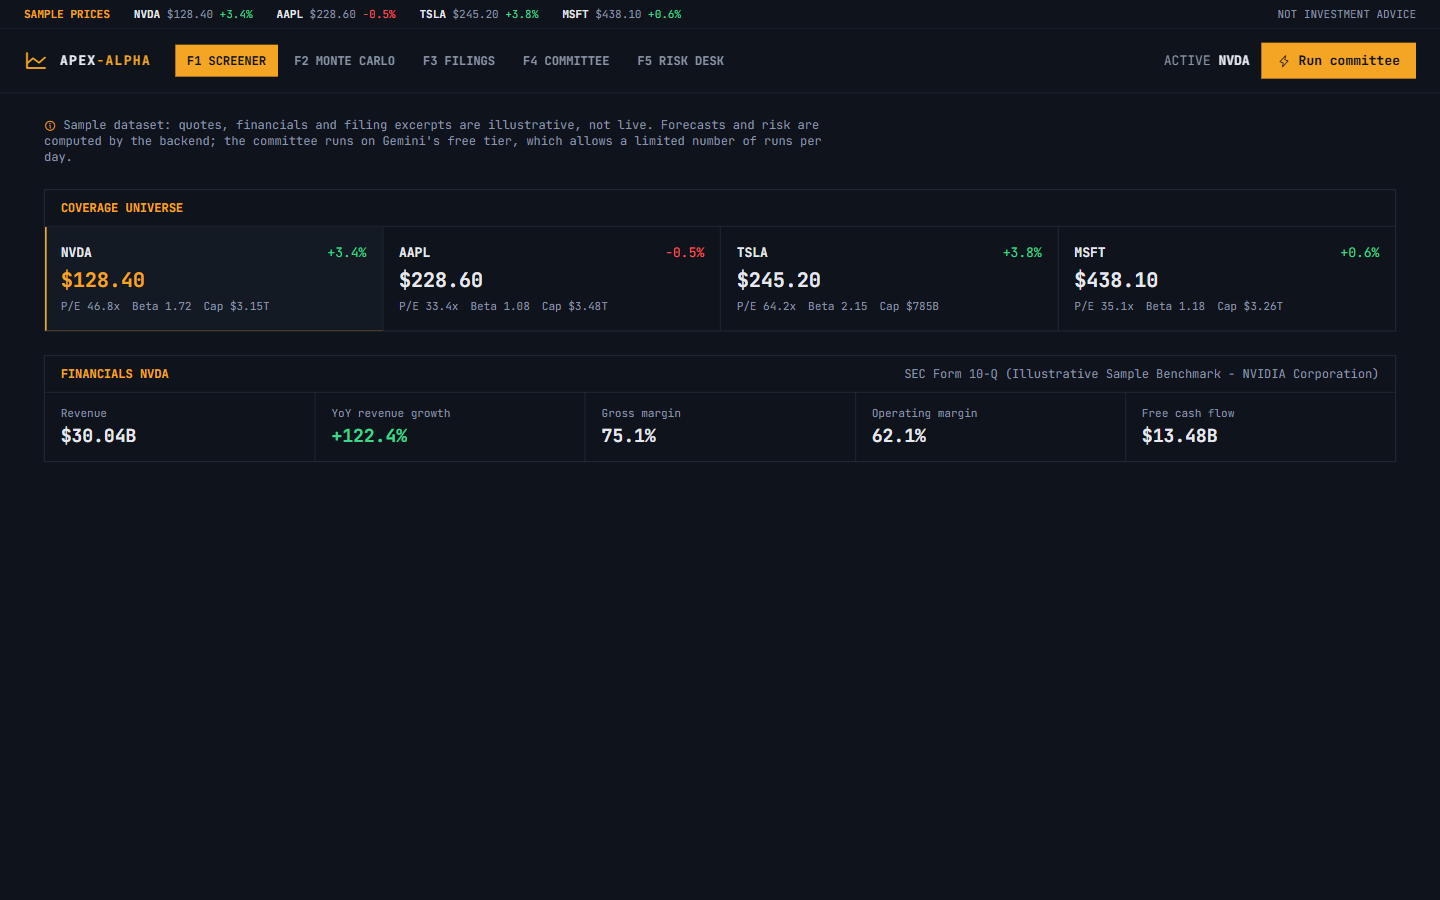
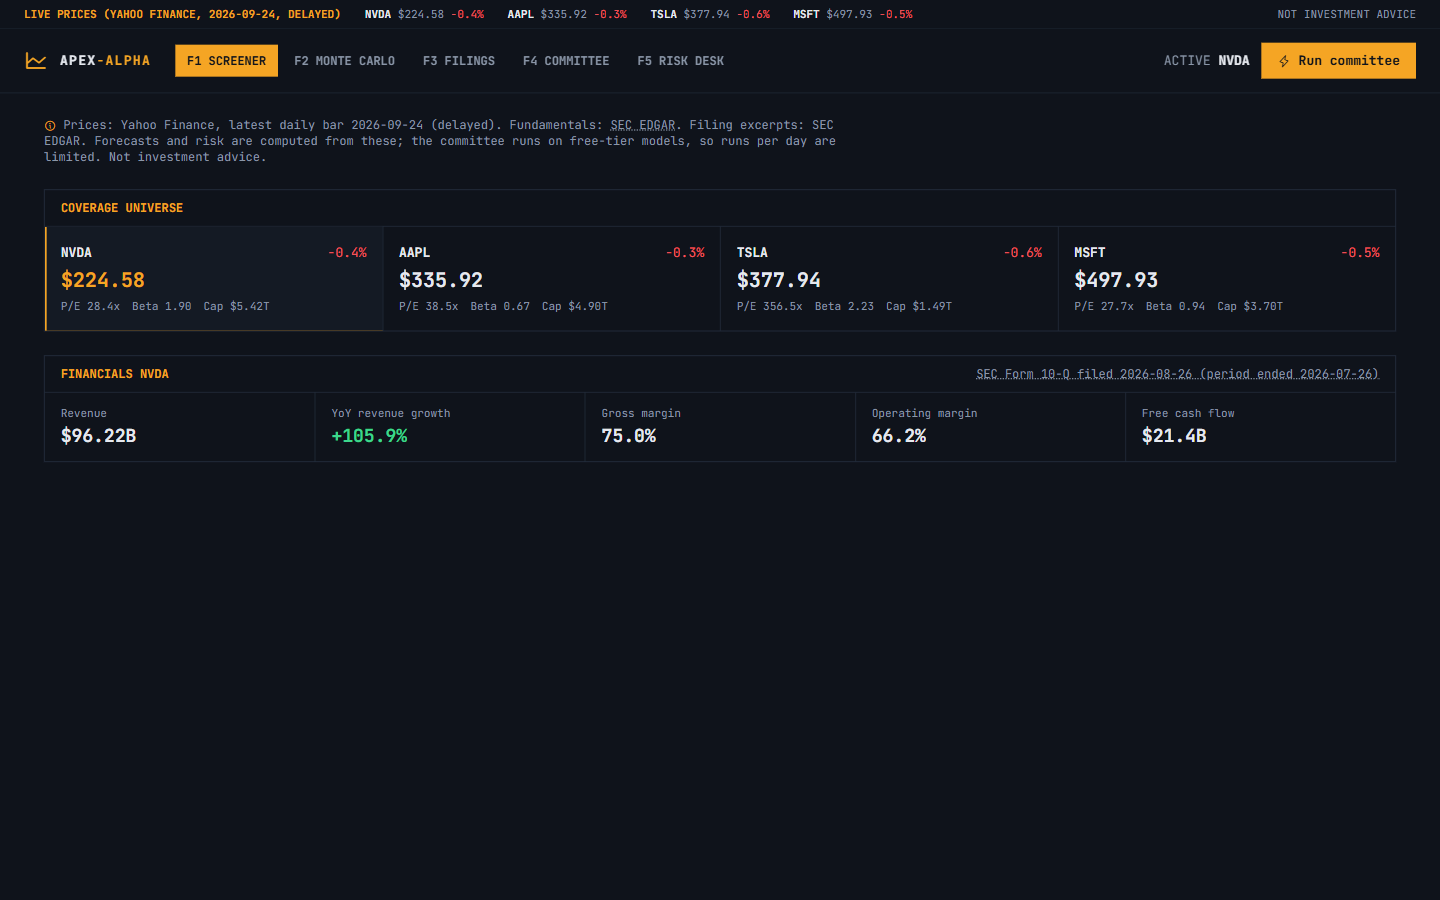
feat(ui): show where every number comes from; docs and live screenshots
The terminal labels live vs sample data per source, links fundamentals and
excerpts to the SEC filing, shows n/a for missing valuations, and labels
the committee steps "LLM" since Groq may serve them. README documents the
data sources, caching and environment variables; screenshots, including
a full committee run, are captured from the live demo.

diff --git a/static/index.html b/static/index.html
@@ -45,7 +45,7 @@
 
   <!-- Quote strip (static; sample prices) -->
   <div class="border-b border-bb-line text-[11px] px-4 md:px-6 py-1.5 flex items-center gap-6 text-bb-muted overflow-x-auto whitespace-nowrap">
-    <span class="font-bold text-bb-amber">SAMPLE PRICES</span>
+    <span class="font-bold text-bb-amber" id="stripLabel">PRICES</span>
     <div class="flex gap-6" id="quoteStrip"></div>
     <span class="ml-auto hidden md:inline">NOT INVESTMENT ADVICE</span>
   </div>
@@ -75,7 +75,7 @@
   <main class="flex-1 w-full max-w-[1400px] mx-auto px-4 md:px-6 py-6 space-y-6">
     <p class="text-bb-muted text-xs max-w-[110ch]">
       <i class="ph ph-info text-bb-amber align-[-2px]"></i>
-      Sample dataset: quotes, financials and filing excerpts are illustrative, not live. Forecasts and risk are computed by the backend; the committee runs on Gemini's free tier, which allows a limited number of runs per day.
+      <span id="dataNote">Loading market data.</span>
     </p>
 
     <div id="loadError" role="alert" class="hidden px-4 py-3 border border-bb-down text-bb-down"></div>
@@ -116,7 +116,7 @@
     <section id="page_secrag" class="hidden border border-bb-line">
       <div class="px-4 py-2.5 border-b border-bb-line flex flex-wrap gap-2 justify-between">
         <h2 class="text-xs font-bold text-bb-amber">FILING EXCERPTS <span data-sym></span></h2>
-        <span class="text-xs text-bb-muted">Committee citations are checked word for word against these</span>
+        <span class="text-xs text-bb-muted" id="filingSource"></span>
       </div>
       <div class="divide-y divide-bb-line" id="secExcerptsContainer"></div>
     </section>
@@ -176,8 +176,8 @@
       ['ingest_market_data', 'Ingest'],
       ['run_quantitative_forecast', 'Monte Carlo'],
       ['evaluate_risk_guardrails', 'Risk guard'],
-      ['adversarial_debate', 'Bull vs bear (Gemini)'],
-      ['executive_synthesis', 'CIO (Gemini)'],
+      ['adversarial_debate', 'Bull vs bear (LLM)'],
+      ['executive_synthesis', 'CIO (LLM)'],
       ['stage_order_proposal', 'Stage order'],
       ['portfolio_manager_gate', 'PM sign-off'],
     ];
@@ -189,7 +189,9 @@
     const esc = (s) => String(s ?? '').replace(/[&<>"']/g, (c) => ({ '&': '&amp;', '<': '&lt;', '>': '&gt;', '"': '&quot;', "'": '&#39;' }[c]));
     const money = (n) => '$' + Number(n).toLocaleString('en-US', { minimumFractionDigits: 2, maximumFractionDigits: 2 });
     const pct = (n, signed = false) => (signed && n > 0 ? '+' : '') + Number(n).toFixed(1) + '%';
-    const cap = (b) => (b >= 1000 ? (b / 1000).toFixed(2) + 'T' : b.toFixed(0) + 'B');
+    const cap = (b) => (b == null ? 'n/a' : '$' + (b >= 1000 ? (b / 1000).toFixed(2) + 'T' : b.toFixed(0) + 'B'));
+    const multiple = (x) => (x == null ? 'n/a' : x + 'x');
+    const link = (url, text) => (url ? `<a href="${esc(url)}" target="_blank" rel="noopener" class="underline decoration-dotted hover:text-bb-amber">${esc(text)}</a>` : esc(text));
     const tone = (n) => (n >= 0 ? 'text-bb-up' : 'text-bb-down');
     const stat = (label, value, sub = '', cls = '') => `
       <div class="px-4 py-3">
@@ -252,6 +254,8 @@
         showLoadError('Could not load market data: ' + err.message);
         return;
       }
+      const livePrices = state.tickers.find((t) => t.source !== 'sample');
+      $('stripLabel').textContent = livePrices ? `LIVE PRICES (${livePrices.source.toUpperCase()}, ${livePrices.as_of}, DELAYED)` : 'SAMPLE PRICES';
       $('quoteStrip').innerHTML = state.tickers.map((t) =>
         `<span><span class="text-bb-text font-bold">${esc(t.symbol)}</span> ${money(t.price)} <span class="${tone(t.change_pct)}">${pct(t.change_pct, true)}</span></span>`
       ).join('');
@@ -283,6 +287,7 @@
         return;
       }
       if (state.active !== symbol) return;
+      renderDataNote();
       renderMetrics();
       renderMonteCarlo();
       renderFilings();
@@ -299,14 +304,24 @@
           class="text-left p-4 space-y-1 ${active ? 'bg-bb-surface shadow-[inset_2px_0_0_#F5A524]' : 'hover:bg-bb-surface'}">
           <div class="flex justify-between"><span class="font-bold">${esc(t.symbol)}</span><span class="${tone(t.change_pct)}">${pct(t.change_pct, true)}</span></div>
           <p class="text-xl font-bold ${active ? 'text-bb-amber' : ''}">${money(t.price)}</p>
-          <p class="text-[11px] text-bb-muted flex gap-3"><span>P/E ${t.pe_ratio}x</span><span>Beta ${t.beta}</span><span>Cap $${cap(t.market_cap_b)}</span></p>
+          <p class="text-[11px] text-bb-muted flex gap-3"><span>P/E ${multiple(t.pe_ratio)}</span><span>Beta ${Number(t.beta).toFixed(2)}</span><span>Cap ${cap(t.market_cap_b)}</span></p>
         </button>`;
       }).join('');
     }
 
+    function renderDataNote() {
+      const src = state.detail[state.active].sources;
+      const parts = [];
+      parts.push(src.prices === 'sample' ? 'Prices: illustrative sample (live source unavailable).' : `Prices: ${esc(src.prices)}, latest daily bar ${esc(src.prices_as_of)} (delayed).`);
+      parts.push(src.fundamentals === 'sample' ? 'Fundamentals: illustrative sample.' : `Fundamentals: ${link(src.fundamentals_url, 'SEC EDGAR')}.`);
+      parts.push(src.excerpts === 'sample' ? 'Filing excerpts: illustrative sample.' : 'Filing excerpts: SEC EDGAR.');
+      parts.push('Forecasts and risk are computed from these; the committee runs on free-tier models, so runs per day are limited. Not investment advice.');
+      $('dataNote').innerHTML = parts.join(' ');
+    }
+
     function renderMetrics() {
       const f = state.detail[state.active].financials;
-      $('activeFilingRef').textContent = f.sec_filing_ref;
+      $('activeFilingRef').innerHTML = link(f.filing_url, f.sec_filing_ref);
       $('metricsRow').innerHTML =
         stat('Revenue', '$' + f.revenue_b + 'B') +
         stat('YoY revenue growth', pct(f.revenue_growth_yoy_pct, true), '', tone(f.revenue_growth_yoy_pct)) +
@@ -366,6 +381,10 @@
 
     function renderFilings() {
       const d = state.detail[state.active];
+      const filing = d.sources.excerpts_filing;
+      $('filingSource').innerHTML = filing
+        ? `Verbatim from ${link(filing.url, `SEC Form ${filing.form} filed ${filing.filed}`)}. Committee citations are checked word for word against these.`
+        : 'Illustrative sample excerpts (live SEC filing unavailable). Committee citations are checked word for word against these.';
       $('secExcerptsContainer').innerHTML = Object.entries(d.excerpts).map(([key, text]) => `
         <figure class="px-4 py-4 space-y-1">
           <figcaption class="text-xs font-bold text-bb-amber">${esc(key.replace(/_/g, ' ').toUpperCase())}</figcaption>

diff --git a/README.md b/README.md
@@ -8,10 +8,18 @@
 
 > **Apex-Alpha** is a quantitative research terminal. A **Merton jump-diffusion Monte Carlo** engine produces 5, 30 and 90-day price quantiles; a **deterministic risk engine** sizes positions with fractional Kelly and VaR limits; an **adversarial Bull vs. Bear LLM committee** argues the case from filing excerpts; and a **LangGraph `interrupt()`** holds every staged order for a portfolio manager's sign-off.
 
-**Live demo:** https://apex-alpha-tan.vercel.app (sample data; the committee runs on Gemini's free tier, so it is limited to a small number of runs per day)
+**Live demo:** https://apex-alpha-tan.vercel.app (NVDA, AAPL, TSLA, MSFT with live prices and SEC filings; the committee runs on free-tier models, so runs per day are limited)
 
-> [!NOTE]
-> **Sample dataset.** Quotes, financials and filing excerpts for NVDA, AAPL, TSLA and MSFT are illustrative benchmark data, not live market data. The backtest below uses real historical prices.
+## Data sources
+
+| Data | Source | Cached | If unavailable |
+| :--- | :--- | :--- | :--- |
+| Prices, beta, volatility, 52-week range | Yahoo Finance via `yfinance` (about 15 months of daily bars; beta and volatility computed exactly as in the backtest) | 15 min | Tiingo if `TIINGO_API_KEY` is set, then the illustrative sample |
+| Market cap, trailing and forward P/E | Yahoo Finance; market cap and P/E fall back to SEC shares outstanding and trailing net income | 24 h | shown as n/a |
+| Revenue, margins, free cash flow, debt/equity | SEC EDGAR XBRL company facts (latest quarter, derived from year-to-date filings where needed) | 6 h | illustrative sample |
+| Filing excerpts the committee cites | SEC EDGAR, latest 10-Q or 10-K (MD&A and risk factors) | 6 h | illustrative sample |
+
+Read endpoints also carry CDN cache headers, so serverless instances rarely refetch. Every response and the UI say which source each number came from.
 
 ---
 
@@ -39,8 +47,8 @@ The LLM committee is not part of the backtest: it cannot be replayed without loo
 ```mermaid
 flowchart TD
     subgraph DataIngestion["1. Data & Filings"]
-        Quotes["Sample Market Quotes<br/>(price, beta, volatility, 52-week range)"]
-        SEC["Sample Filing Excerpts & Financials"]
+        Quotes["Live Quotes<br/>(Yahoo Finance: price, beta, volatility, 52-week range)"]
+        SEC["SEC EDGAR<br/>(XBRL fundamentals, 10-Q / 10-K excerpts)"]
     end
 
     subgraph QuantEngine["2. Quantitative Forecasting & Risk"]
@@ -49,7 +57,7 @@ flowchart TD
         Risk["Deterministic Risk Guard<br/>(VaR, CVaR, fractional Kelly, 15% cap)"]
     end
 
-    subgraph DebateEngine["3. Adversarial LLM Committee (Gemini 3.6 / 3.7 / 3.8 fallback)"]
+    subgraph DebateEngine["3. Adversarial LLM Committee (Gemini 3.6 / 3.7 / 3.8, then Groq)"]
         Bull["Bull Analyst"]
         Bear["Bear Risk Officer"]
         Synth["CIO Synthesis"]
@@ -76,11 +84,17 @@ The UI streams each graph node as it finishes (`POST /api/tickers/{symbol}/analy
 
 ## Screenshots
 
-![Screener](docs/images/01_screener.png)
+Captured from the live demo.
 
-![Monte Carlo](docs/images/02_monte_carlo.png)
+![Screener with live prices](docs/images/01_screener.png)
 
-![Risk desk](docs/images/03_risk_desk.png)
+![Monte Carlo forecast](docs/images/02_monte_carlo.png)
+
+![Excerpts from the latest SEC filing](docs/images/03_filings.png)
+
+![Committee run: every citation checked against the filing](docs/images/04_committee.png)
+
+![Order staged for portfolio manager sign-off](docs/images/05_risk_desk.png)
 
 ---
 
@@ -88,11 +102,19 @@ The UI streams each graph node as it finishes (`POST /api/tickers/{symbol}/analy
 
 ```bash
 pip install -r requirements.txt
-cp .env.example .env          # add GEMINI_API_KEY
+cp .env.example .env          # add GEMINI_API_KEY, GROQ_API_KEY, SEC_USER_AGENT
 uvicorn app.main:app --port 8030 --reload
 ```
 
-Open http://127.0.0.1:8030. `GEMINI_MODELS` sets the fallback order (default `gemini-3.6-flash,gemini-3.7-flash,gemini-3.8-flash`); each model has its own free-tier quota.
+Open http://127.0.0.1:8030.
+
+| Variable | Purpose |
+| :--- | :--- |
+| `GEMINI_API_KEY` | Committee models. `GEMINI_MODELS` sets the order (default `gemini-3.6-flash,gemini-3.7-flash,gemini-3.8-flash`); each has its own free-tier quota. |
+| `GROQ_API_KEY` | Backup when every Gemini model is out of quota or overloaded (`GROQ_MODEL`, default `openai/gpt-oss-120b`). |
+| `SEC_USER_AGENT` | Required by SEC EDGAR: a name and contact email, e.g. `Apex-Alpha demo you@example.com`. No API key needed. |
+| `TIINGO_API_KEY` | Optional second price source (free key at tiingo.com). |
+| `APEX_DATA=sample` | Use the offline sample dataset only (the test suite does this). |
 
 MCP server:
 
@@ -115,7 +137,7 @@ python -m backtest.run_backtest && python -m backtest.report
 python -m pytest tests/ -v
 ```
 
-Covers Monte Carlo quantiles, the risk engine and order rule, the LangGraph interrupt/resume lifecycle, the HTTP API (streaming, sign-off validation, error handling), the MCP server, and the Gemini fallback chain. CI runs the suite on every push.
+Covers Monte Carlo quantiles, the risk engine and order rule, the LangGraph interrupt/resume lifecycle, the HTTP API (streaming, sign-off validation, error handling, cache headers), live-data parsing (SEC quarter derivation, filing excerpts, fallbacks), the MCP server, and the Gemini and Groq fallback chain. Tests run offline against the sample dataset; CI runs them on every push.
 
 ---
 
